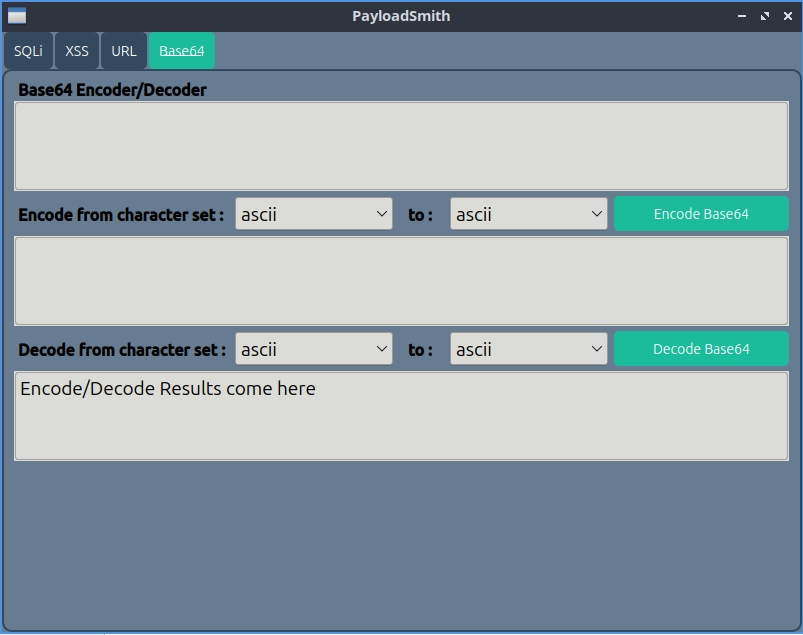
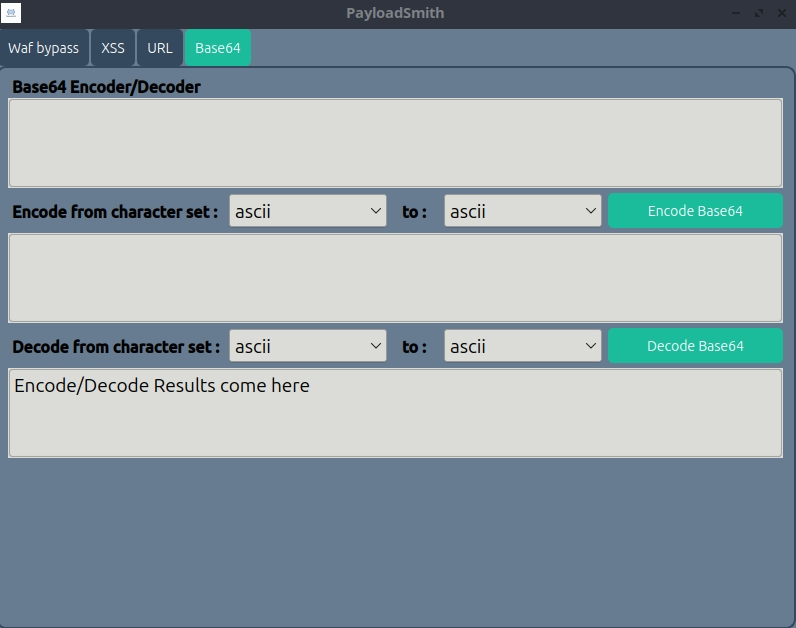
Waf Bypass Im

Changed region(s): [[0.0, 0.0, 1.0, 1.0]]

diff --git a/README.md b/README.md
@@ -29,6 +29,8 @@ Here are some images of PayloadSmith:
 <img src="https://raw.githubusercontent.com/ariyanjm/PayloadSmith/refs/heads/main/screen%20shots/screenUrl.jpg" alt="URL Section" />
 <p>&nbsp;&nbsp;&nbsp;&nbsp;Xss bypass:</p>
 <img src="https://raw.githubusercontent.com/ariyanjm/PayloadSmith/refs/heads/main/screen%20shots/screenXss.jpg" alt="URL Section" />
+<p>&nbsp;&nbsp;&nbsp;&nbsp;Waf bypass:</p>
+<img src="https://raw.githubusercontent.com/ariyanjm/PayloadSmith/refs/heads/main/screen%20shots/screenWaf.jpg" alt="URL Section" />
 ## How to Support
 
 You can support me even by buying me a coffee! Your donations help keep this project alive and allow me to add more payloads and features.  
